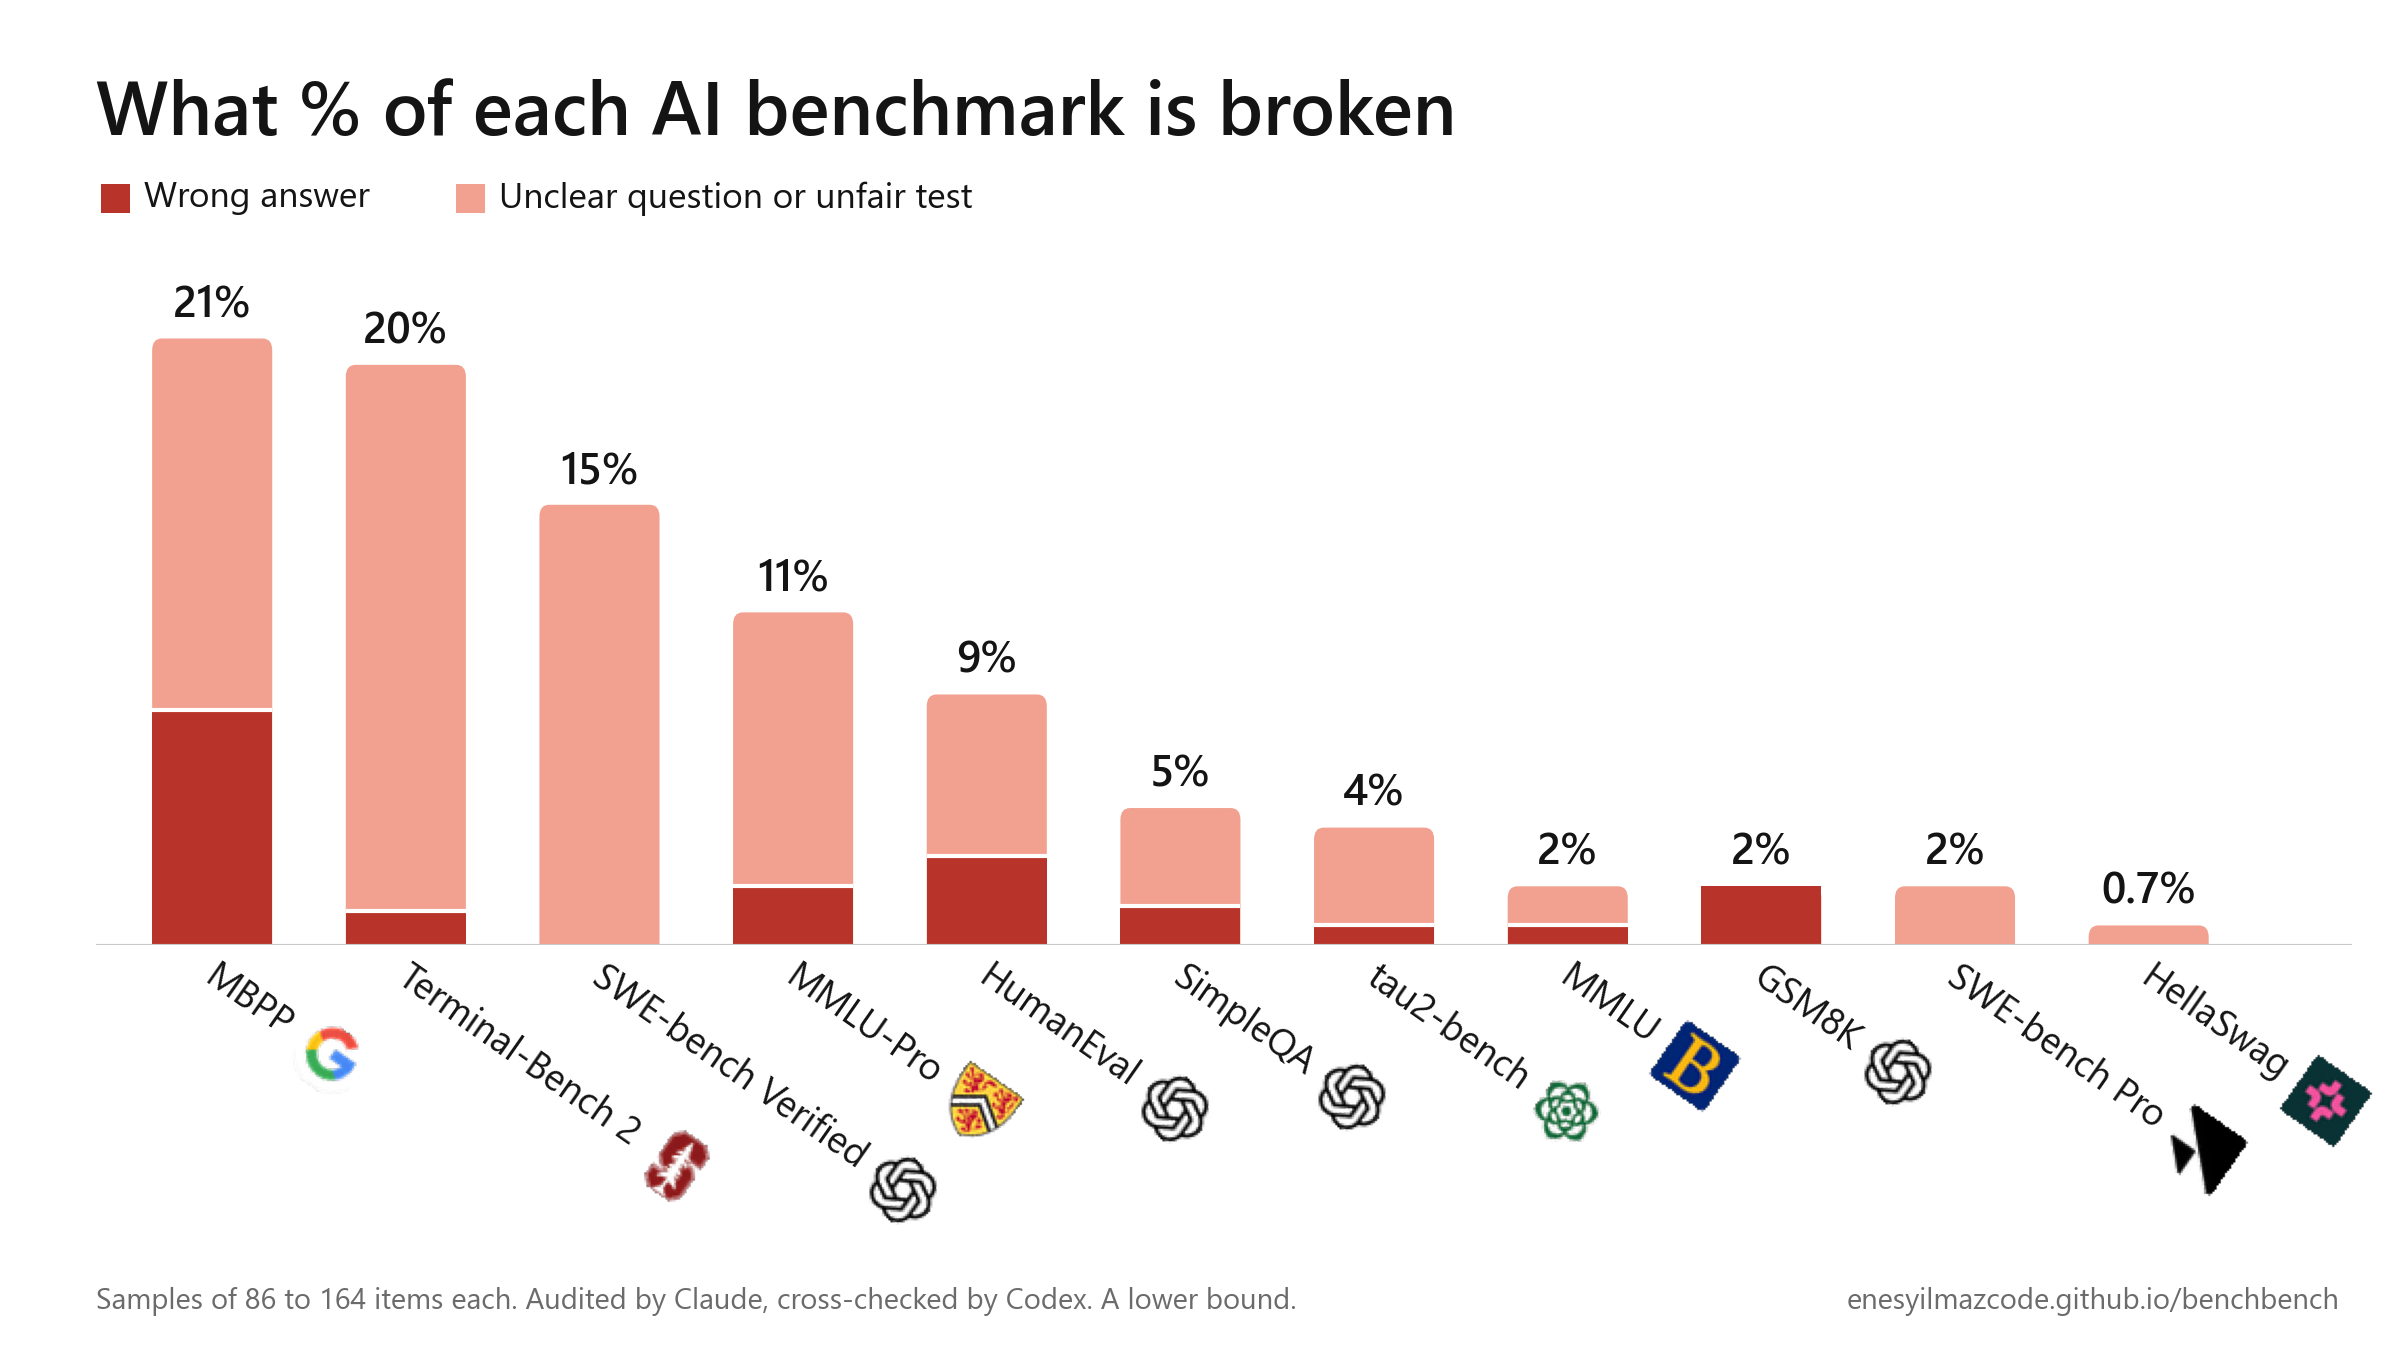
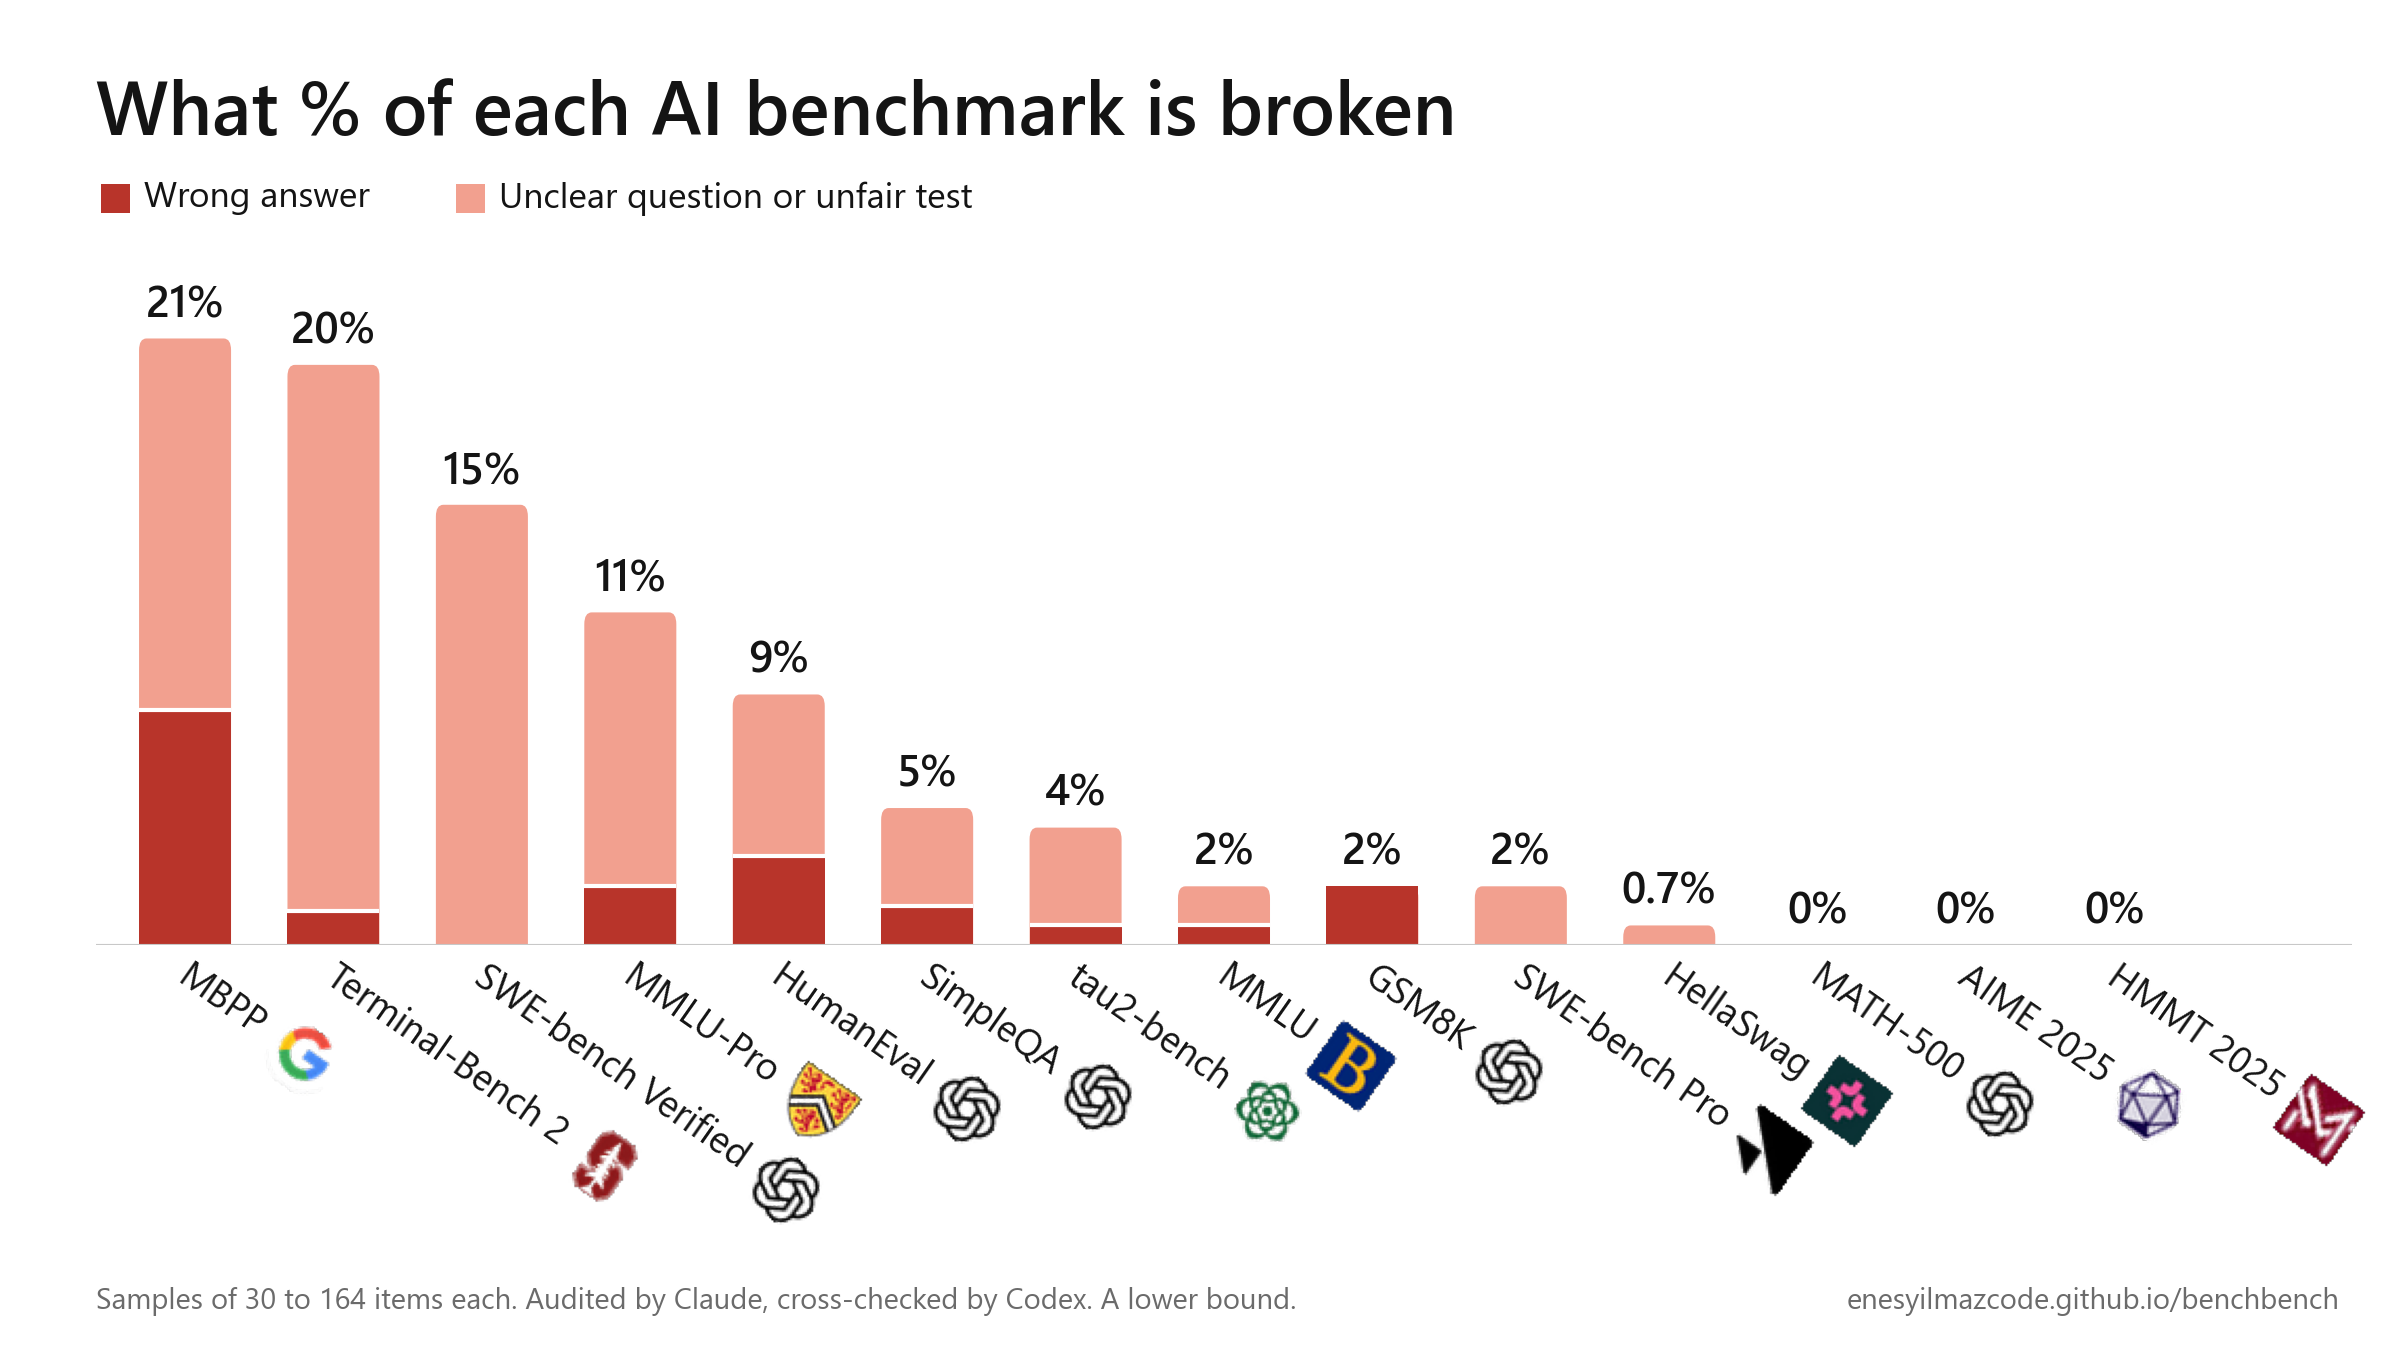
Show the three clean benchmarks in the chart

Changed region(s): [[0.0625, 0.1867, 1.0, 0.9022], [0.0312, 0.2489, 0.0625, 0.6844]]

diff --git a/post/chart.py b/post/chart.py
@@ -16,11 +16,11 @@ SHORT = {"MBPP (sanitized)": "MBPP", "Terminal-Bench 2.0": "Terminal-Bench 2", "
 MAKER = {  # benchmark -> the organisation that published it
     "mbpp": "google.com", "terminal_bench2": "stanford.edu", "swe_verified": "openai.com", "mmlu_pro": "uwaterloo.ca",
     "humaneval": "openai.com", "simpleqa": "openai.com", "tau2": "sierra.ai", "mmlu": "berkeley.edu",
-    "gsm8k": "openai.com", "swe_pro": "scale.com", "hellaswag": "allenai.org",
+    "gsm8k": "openai.com", "swe_pro": "scale.com", "hellaswag": "allenai.org", "math500": "openai.com",
+    "aime2025": "maa.org", "hmmt2025": "hmmt.org",
 }
 
 rows = sorted(json.loads((ROOT / "results/summary.json").read_text(encoding="utf-8")), key=lambda r: -r["rate"])
-rows = [r for r in rows if r["flawed"]]  # 0% bars carry no information on a phone
 vals = [100 * r["rate"] for r in rows]
 
 plt.rcParams["font.family"] = ["Segoe UI", "DejaVu Sans"]
@@ -38,10 +38,10 @@ for i, r in enumerate(rows):
         ax.add_patch(plt.Rectangle((i - w / 2, -2), w, wrong + 2, fc=BAR, ec="none"))
         if wrong < v:  # 2px gap between the two shades
             ax.plot([i - w / 2, i + w / 2], [wrong, wrong], color=BG, lw=2, solid_capstyle="butt")
-    ax.text(i, v + 0.4, f"{v:.0f}%" if v >= 1 else f"{v:.1f}%", ha="center", va="bottom",
+    ax.text(i, v + 0.4, f"{v:.0f}%" if v >= 1 or v == 0 else f"{v:.1f}%", ha="center", va="bottom",
             color=INK, fontsize=21, fontweight="semibold")
 
-ax.set_xlim(-0.6, len(vals) + 0.05)
+ax.set_xlim(-0.6, len(vals) + 0.6)
 ax.set_ylim(0, 23)
 ax.set_xticks([])
 ax.set_yticks([])
@@ -92,7 +92,7 @@ fig.text(0.04, 0.9, "What % of each AI benchmark is broken", color=INK, fontsize
 for x, c, label in ((0.042, BAR, "Wrong answer"), (0.19, SOFT, "Unclear question or unfair test")):
     fig.patches.append(plt.Rectangle((x, 0.842), 0.012, 0.022, transform=fig.transFigure, fc=c, ec="none"))
     fig.text(x + 0.018, 0.853, label, color=INK, fontsize=17, va="center")
-fig.text(0.04, 0.03, "Samples of 86 to 164 items each. Audited by Claude, cross-checked by Codex. A lower bound.", color=MUTED, fontsize=14)
+fig.text(0.04, 0.03, "Samples of 30 to 164 items each. Audited by Claude, cross-checked by Codex. A lower bound.", color=MUTED, fontsize=14)
 fig.text(0.975, 0.03, "enesyilmazcode.github.io/benchbench", color=MUTED, fontsize=14, ha="right")
 fig.subplots_adjust(left=0.04, right=0.98, top=0.8, bottom=0.3)
 fig.savefig(ROOT / "post/benchbench-chart.png", facecolor=BG)

diff --git a/README.md b/README.md
@@ -6,7 +6,7 @@ Benchmark scores get quoted to a tenth of a point. If 10% of a benchmark's answe
 
 ![Share of sampled items found broken in each benchmark](post/benchbench-chart.png)
 
-Dark red is a provably wrong answer key. Light red is everything else that counts as broken: an ambiguous or unanswerable question, or a test that rejects a reasonable answer. Those are judgment calls by the reviewers, each with its reasoning on the report page. The chart leaves out MATH-500, AIME 2025 and HMMT 2025 because nothing in them was found broken; they are in the table below.
+Dark red is a provably wrong answer key. Light red is everything else that counts as broken: an ambiguous or unanswerable question, or a test that rejects a reasonable answer. Those are judgment calls by the reviewers, each with its reasoning on the report page. MATH-500, AIME 2025 and HMMT 2025 show 0% because nothing in them was found broken.
 
 ## Results
 
